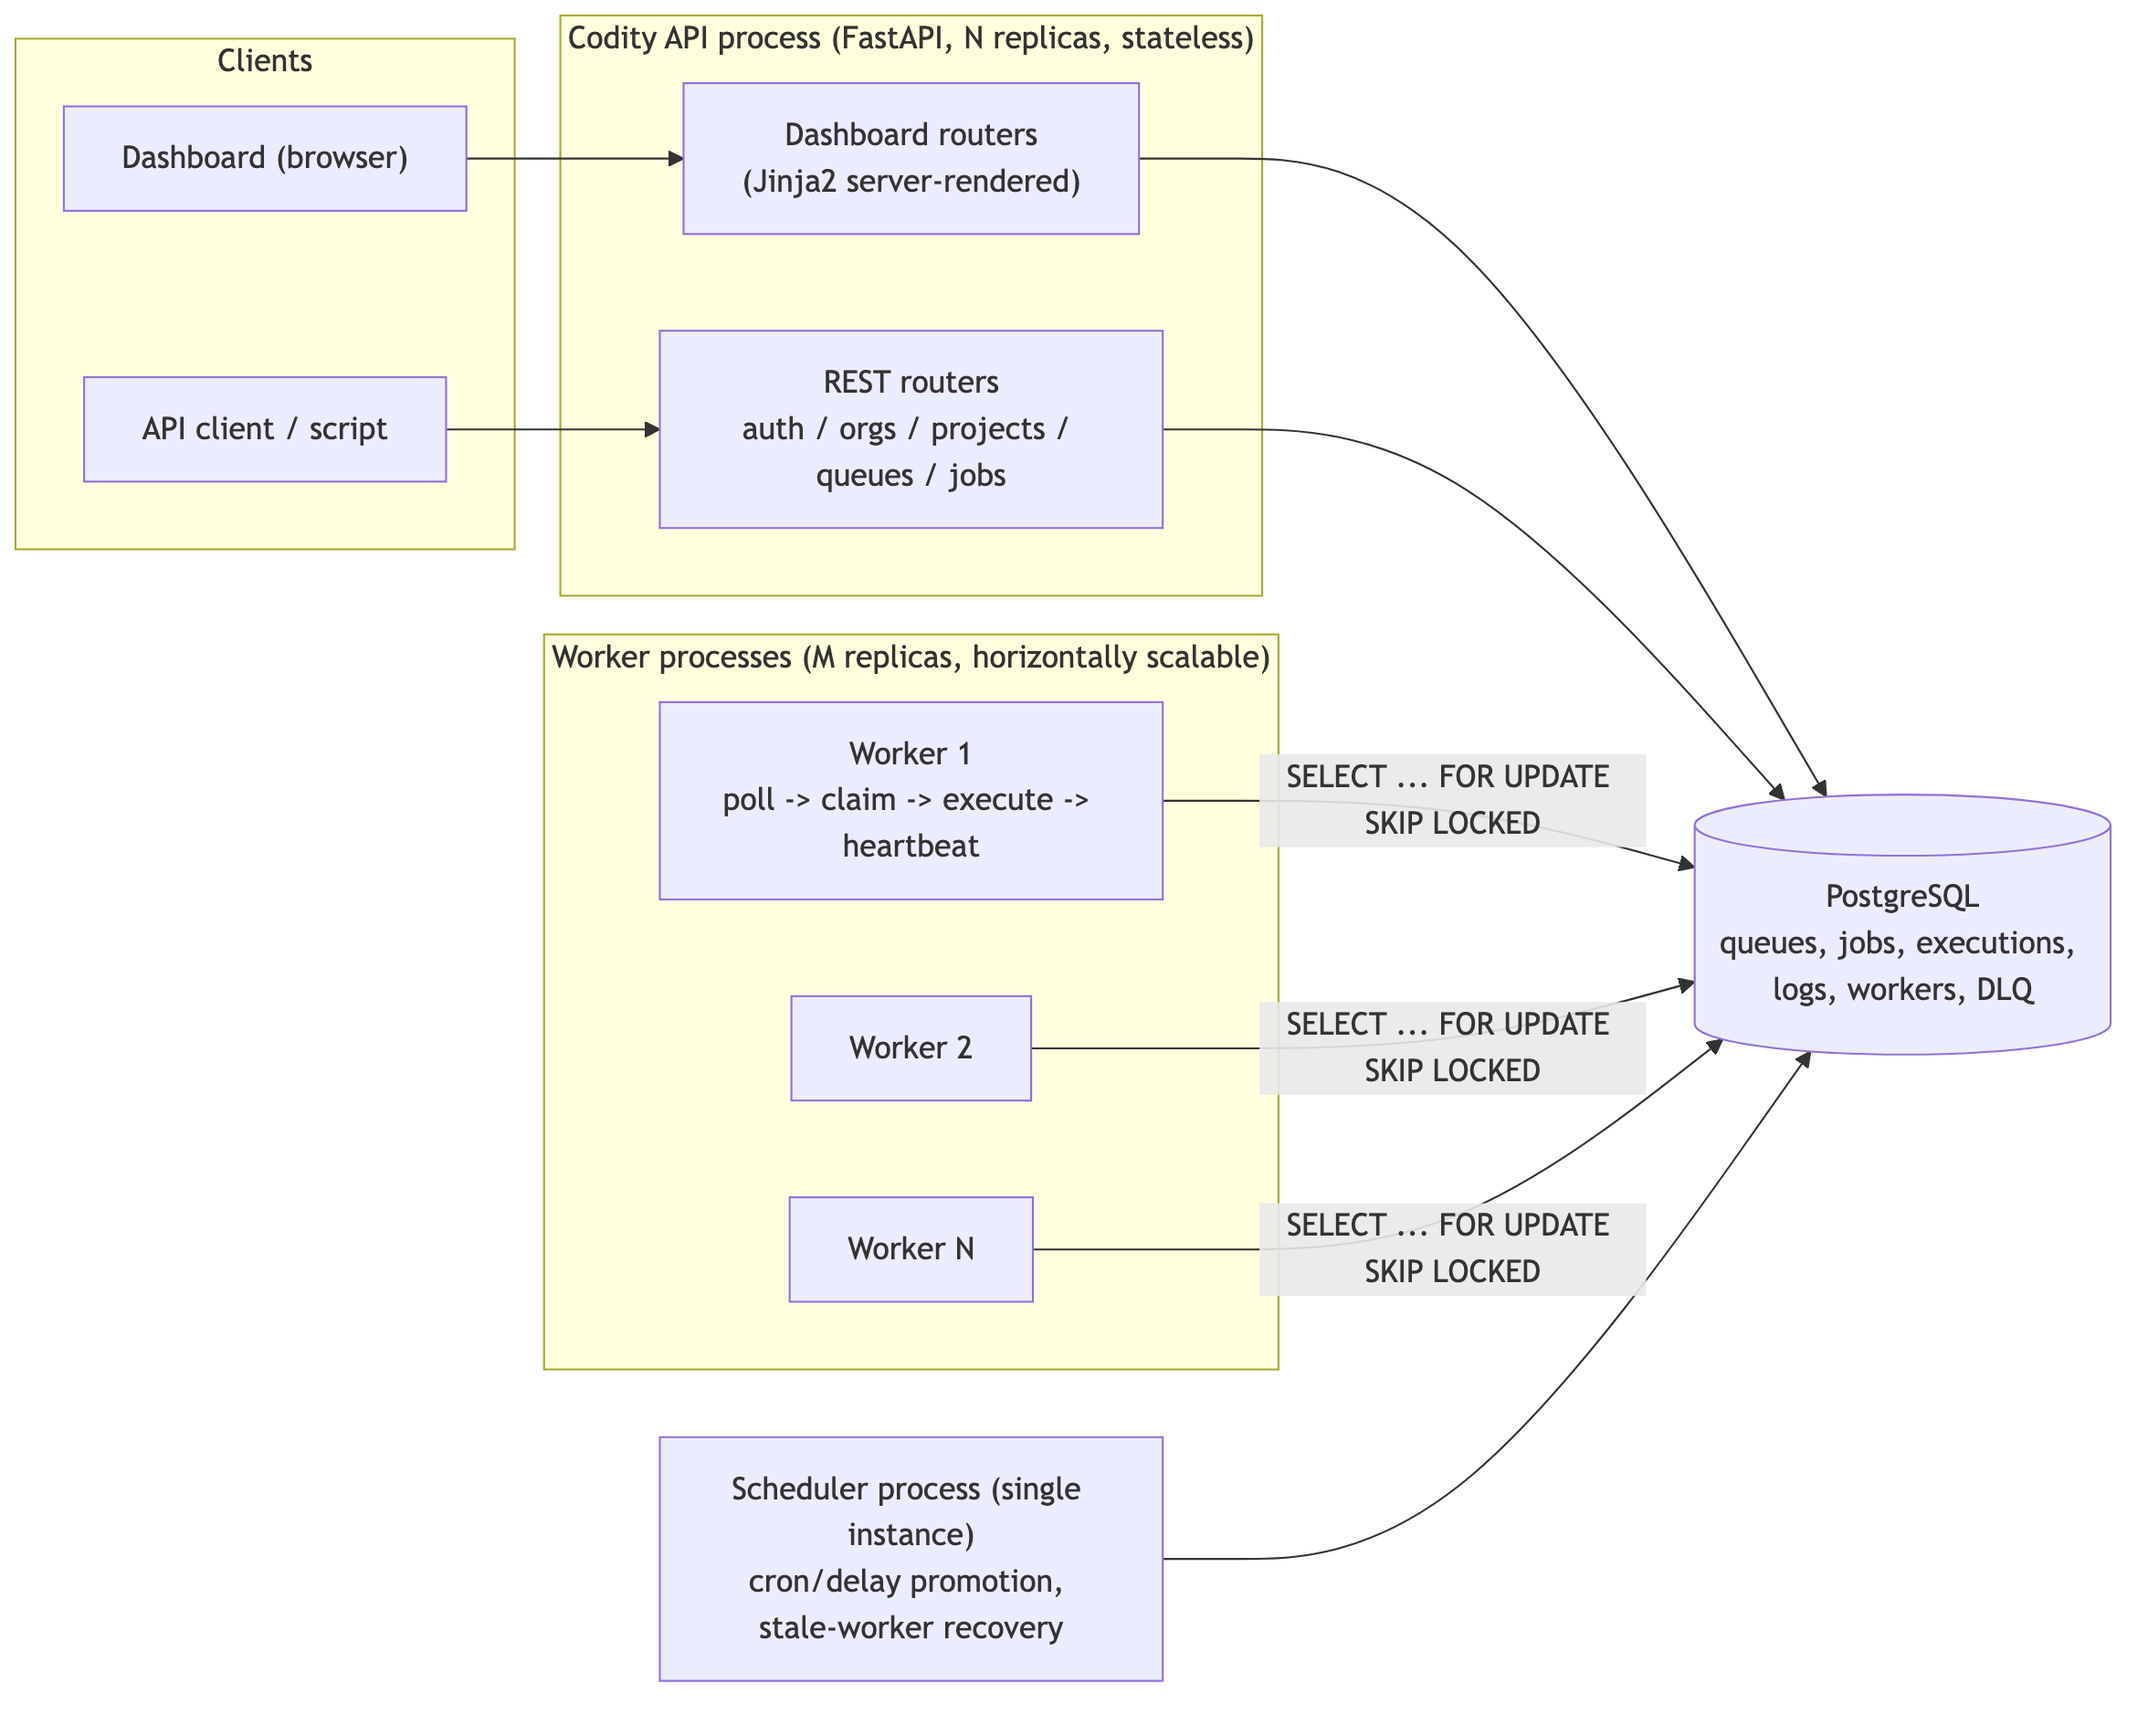
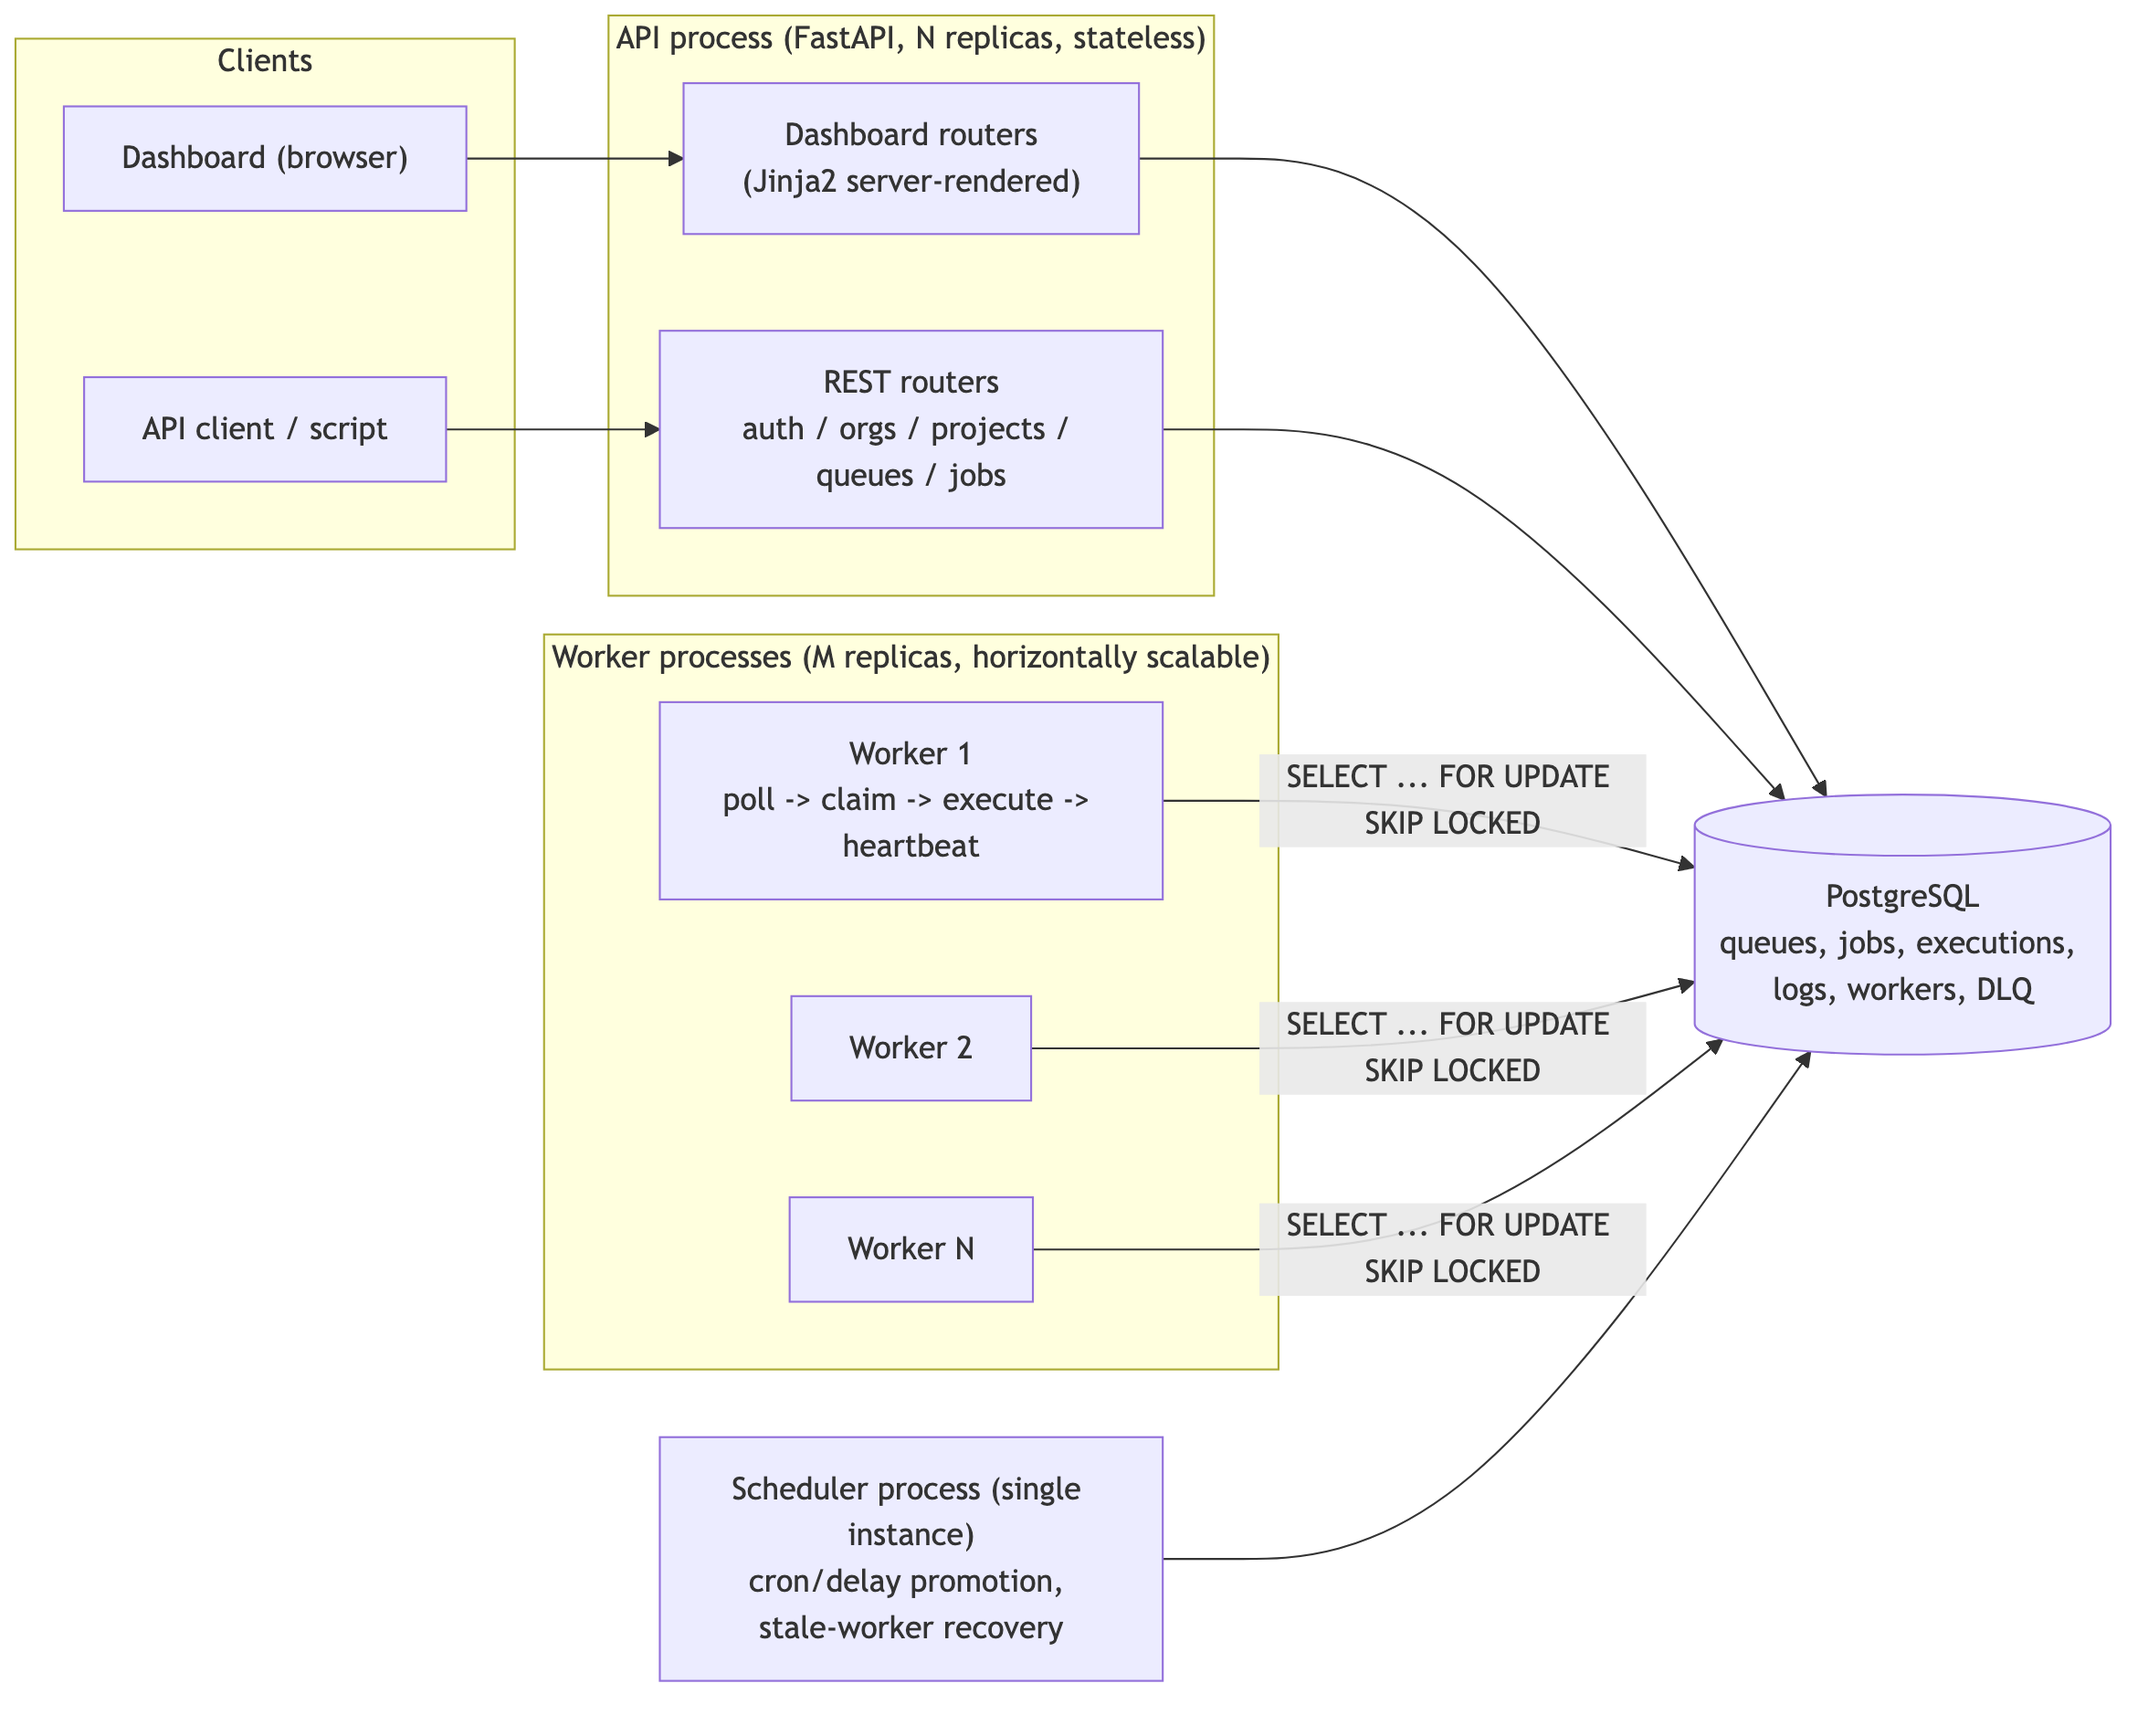
chore: rename codity -> jobsched throughout
Company name from the original take-home was baked into logger names, the
Postgres role/database/volume, the session cookie, CI config, and prose.
Renamed to a project-neutral one across code, config, CI, and docs, and
re-rendered the architecture PNG since its Mermaid source changed.

Paired with the origin note added in the previous commit -- the point is
a repo that reads as its own project, not a scrubbed one.

Note for anyone with an existing local stack: the Postgres role and volume
changed names, so `docker compose down -v` is needed before `up` (dev data
only; migrations rebuild the schema).

Changed region(s): [[0.2483, 0.0, 0.5897, 0.3706]]

diff --git a/tests/conftest.py b/tests/conftest.py
@@ -5,7 +5,7 @@ the concurrency behavior we're specifically testing, isn't meaningfully
 exercised by SQLite). Point TEST_DATABASE_URL at a throwaway database, e.g.
 via `docker compose up -d db` and:
 
-    export TEST_DATABASE_URL=postgresql+asyncpg://codity:codity@localhost:5432/codity_test
+    export TEST_DATABASE_URL=postgresql+asyncpg://jobsched:jobsched@localhost:5432/jobsched_test
 
 Tests are skipped automatically if no test database is reachable, so
 `pytest` still runs cleanly (skipping the DB-backed tests) in environments
@@ -22,7 +22,7 @@ from sqlalchemy.ext.asyncio import async_sessionmaker, create_async_engine
 from app.database import Base, get_db
 
 TEST_DATABASE_URL = os.environ.get(
-    "TEST_DATABASE_URL", "postgresql+asyncpg://codity:codity@localhost:5432/codity_test"
+    "TEST_DATABASE_URL", "postgresql+asyncpg://jobsched:jobsched@localhost:5432/jobsched_test"
 )
 
 

diff --git a/worker/main.py b/worker/main.py
@@ -21,11 +21,11 @@ from worker.runner import WorkerRunner
 # it. app/main.py and scheduler/main.py both set this up already; this file
 # was the one place it got missed.
 logging.basicConfig(level=logging.INFO, format="%(asctime)s %(levelname)s [%(name)s] %(message)s")
-logger = logging.getLogger("codity.worker")
+logger = logging.getLogger("jobsched.worker")
 
 
 async def main() -> None:
-    parser = argparse.ArgumentParser(description="Codity worker process")
+    parser = argparse.ArgumentParser(description="Job scheduler worker process")
     parser.add_argument("--concurrency", type=int, default=None, help="Max concurrent jobs this process runs")
     args = parser.parse_args()
 

diff --git a/app/config.py b/app/config.py
@@ -12,8 +12,8 @@ class Settings(BaseSettings):
     environment: str = "development"  # "development" | "production"
 
     # Database
-    database_url: str = "postgresql+asyncpg://codity:codity@localhost:5432/codity"
-    sync_database_url: str = "postgresql+psycopg2://codity:codity@localhost:5432/codity"
+    database_url: str = "postgresql+asyncpg://jobsched:jobsched@localhost:5432/jobsched"
+    sync_database_url: str = "postgresql+psycopg2://jobsched:jobsched@localhost:5432/jobsched"
     db_pool_size: int = 10
     db_max_overflow: int = 20
 

diff --git a/app/main.py b/app/main.py
@@ -60,6 +60,6 @@ async def health_ready(db: AsyncSession = Depends(get_db)):
     try:
         await db.execute(text("SELECT 1"))
     except Exception:
-        logging.getLogger("codity.api").exception("Readiness check failed: database unreachable")
+        logging.getLogger("jobsched.api").exception("Readiness check failed: database unreachable")
         return JSONResponse(status_code=503, content={"status": "unavailable"})
     return {"status": "ok"}

diff --git a/scheduler/main.py b/scheduler/main.py
@@ -22,7 +22,7 @@ from app.database import AsyncSessionLocal
 from app.services.job_service import detect_stale_workers, materialize_due_scheduled_jobs, promote_retrying_jobs
 
 logging.basicConfig(level=logging.INFO, format="%(asctime)s %(levelname)s [%(name)s] %(message)s")
-logger = logging.getLogger("codity.scheduler")
+logger = logging.getLogger("jobsched.scheduler")
 settings = get_settings()
 
 _shutdown = asyncio.Event()

diff --git a/app/security.py b/app/security.py
@@ -17,7 +17,7 @@ pwd_context = CryptContext(schemes=["bcrypt"], deprecated="auto")
 # (no Authorization header) don't get rejected before we can check the
 # cookie ourselves in get_current_user below.
 oauth2_scheme = OAuth2PasswordBearer(tokenUrl="/auth/login", auto_error=False)
-SESSION_COOKIE_NAME = "codity_session"
+SESSION_COOKIE_NAME = "jobsched_session"
 
 
 def hash_password(password: str) -> str:

diff --git a/app/routers/orgs.py b/app/routers/orgs.py
@@ -9,7 +9,7 @@ from app.models import Organization, OrganizationMember, OrgRole, User
 from app.schemas import OrganizationCreate, OrganizationOut
 from app.security import get_current_user
 
-logger = logging.getLogger("codity.api.orgs")
+logger = logging.getLogger("jobsched.api.orgs")
 router = APIRouter(prefix="/organizations", tags=["organizations"])
 
 

diff --git a/app/routers/auth.py b/app/routers/auth.py
@@ -11,7 +11,7 @@ from app.rate_limit import limiter
 from app.schemas import Token, UserCreate, UserOut
 from app.security import create_access_token, get_current_user, hash_password, verify_password
 
-logger = logging.getLogger("codity.api.auth")
+logger = logging.getLogger("jobsched.api.auth")
 router = APIRouter(prefix="/auth", tags=["auth"])
 
 

diff --git a/app/routers/queues.py b/app/routers/queues.py
@@ -11,7 +11,7 @@ from app.models import Project, Queue, RetryPolicy
 from app.schemas import QueueCreate, QueueOut, QueueStats, QueueUpdate
 from app.services.stats import queue_stats
 
-logger = logging.getLogger("codity.api.queues")
+logger = logging.getLogger("jobsched.api.queues")
 router = APIRouter(tags=["queues"])
 
 

diff --git a/app/errors.py b/app/errors.py
@@ -22,7 +22,7 @@ from fastapi.responses import JSONResponse, Response
 from slowapi.errors import RateLimitExceeded
 from starlette.exceptions import HTTPException as StarletteHTTPException
 
-logger = logging.getLogger("codity.api")
+logger = logging.getLogger("jobsched.api")
 
 _CODE_BY_STATUS = {
     400: "bad_request",

diff --git a/app/routers/jobs.py b/app/routers/jobs.py
@@ -21,7 +21,7 @@ from app.schemas import (
 from app.services.ai_summary import summarize_failure
 from app.services.job_service import compute_initial_next_run, create_batch, create_job
 
-logger = logging.getLogger("codity.api.jobs")
+logger = logging.getLogger("jobsched.api.jobs")
 router = APIRouter(tags=["jobs"])
 
 

diff --git a/app/routers/projects.py b/app/routers/projects.py
@@ -10,7 +10,7 @@ from app.models import Organization, Project, User
 from app.schemas import ProjectCreate, ProjectOut
 from app.security import get_current_user
 
-logger = logging.getLogger("codity.api.projects")
+logger = logging.getLogger("jobsched.api.projects")
 router = APIRouter(tags=["projects"])
 
 
